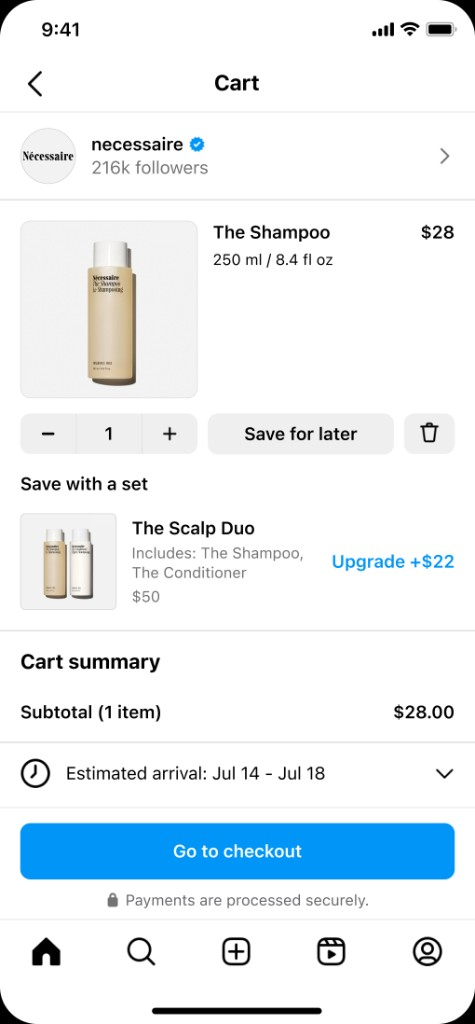
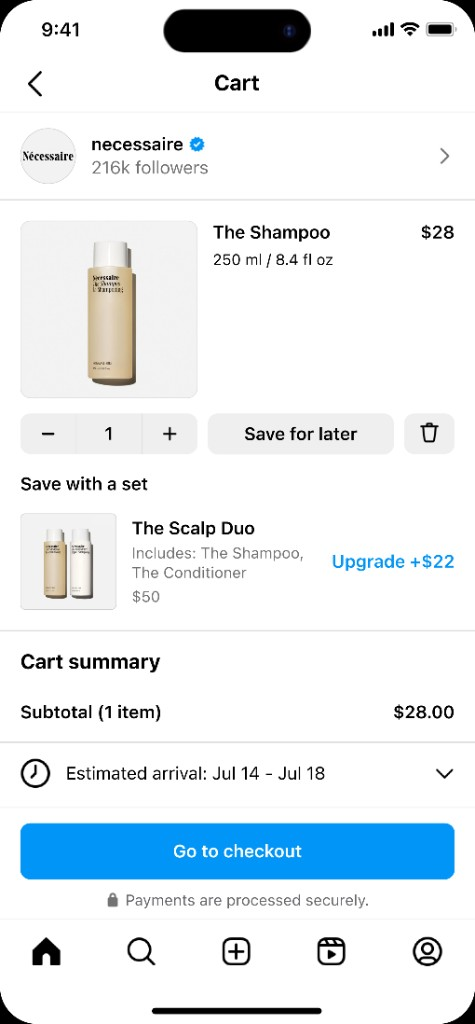
Update Meta Shops Cart middle mockup with latest cart screenshot.
Replace meta-2.png and bump cache buster so the new nécessaire cart upsell screen ships in production.

Changed region(s): [[0.3242, 0.0, 0.6484, 0.0625], [0.4716, 0.75, 0.5011, 0.7812], [0.3242, 0.125, 0.3537, 0.1562]]

diff --git a/index.html b/index.html
@@ -202,7 +202,7 @@
                   <div class="phone-mockup phone-mockup--video">
                     <video data-src="assets/meta-add-to-cart-walkthrough.mov" data-src-mobile="assets/mobile/meta-add-to-cart-walkthrough.mp4" data-poster="assets/meta-1.png?v=2" poster="assets/meta-1.png?v=2" muted loop playsinline autoplay preload="metadata" aria-label="Meta Shops - Add to cart walkthrough"></video>
                   </div>
-                  <div class="phone-mockup"><img src="assets/meta-2.png?v=2" alt="Meta Shops - Cart" /></div>
+                  <div class="phone-mockup"><img src="assets/meta-2.png?v=4" alt="Meta Shops - Cart" /></div>
                   <div class="phone-mockup phone-mockup--video">
                     <video data-src="assets/meta-cart-signals-walkthrough.mov" data-src-mobile="assets/mobile/meta-cart-signals-walkthrough.mp4" data-poster="assets/meta-3.png?v=2" poster="assets/meta-3.png?v=2" muted loop playsinline autoplay preload="metadata" aria-label="Meta Shops - Cart signals walkthrough"></video>
                   </div>